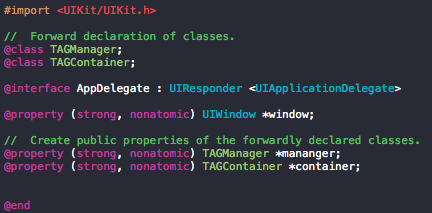
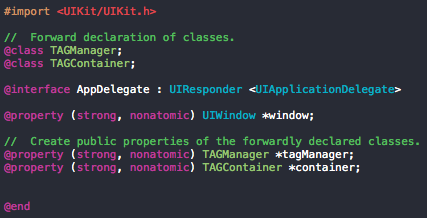
Changed Part1 picture

diff --git a/TestShop/AppDelegate.m b/TestShop/AppDelegate.m
@@ -18,8 +18,12 @@
 
 
 - (BOOL)application:(UIApplication *)application didFinishLaunchingWithOptions:(NSDictionary *)launchOptions {
-    // Override point for customization after application launch.
+    
     return YES;
+}
+
+-(void)containerAvailable:(TAGContainer *)container {
+    
 }
 
 - (void)applicationWillResignActive:(UIApplication *)application {

diff --git a/TestShop/AppDelegate.h b/TestShop/AppDelegate.h
@@ -17,7 +17,7 @@
 @property (strong, nonatomic) UIWindow *window;
 
 //  Create public properties of the forwardly declared classes.
-@property (strong, nonatomic) TAGManager *mananger;
+@property (strong, nonatomic) TAGManager *tagManager;
 @property (strong, nonatomic) TAGContainer *container;
 
 
